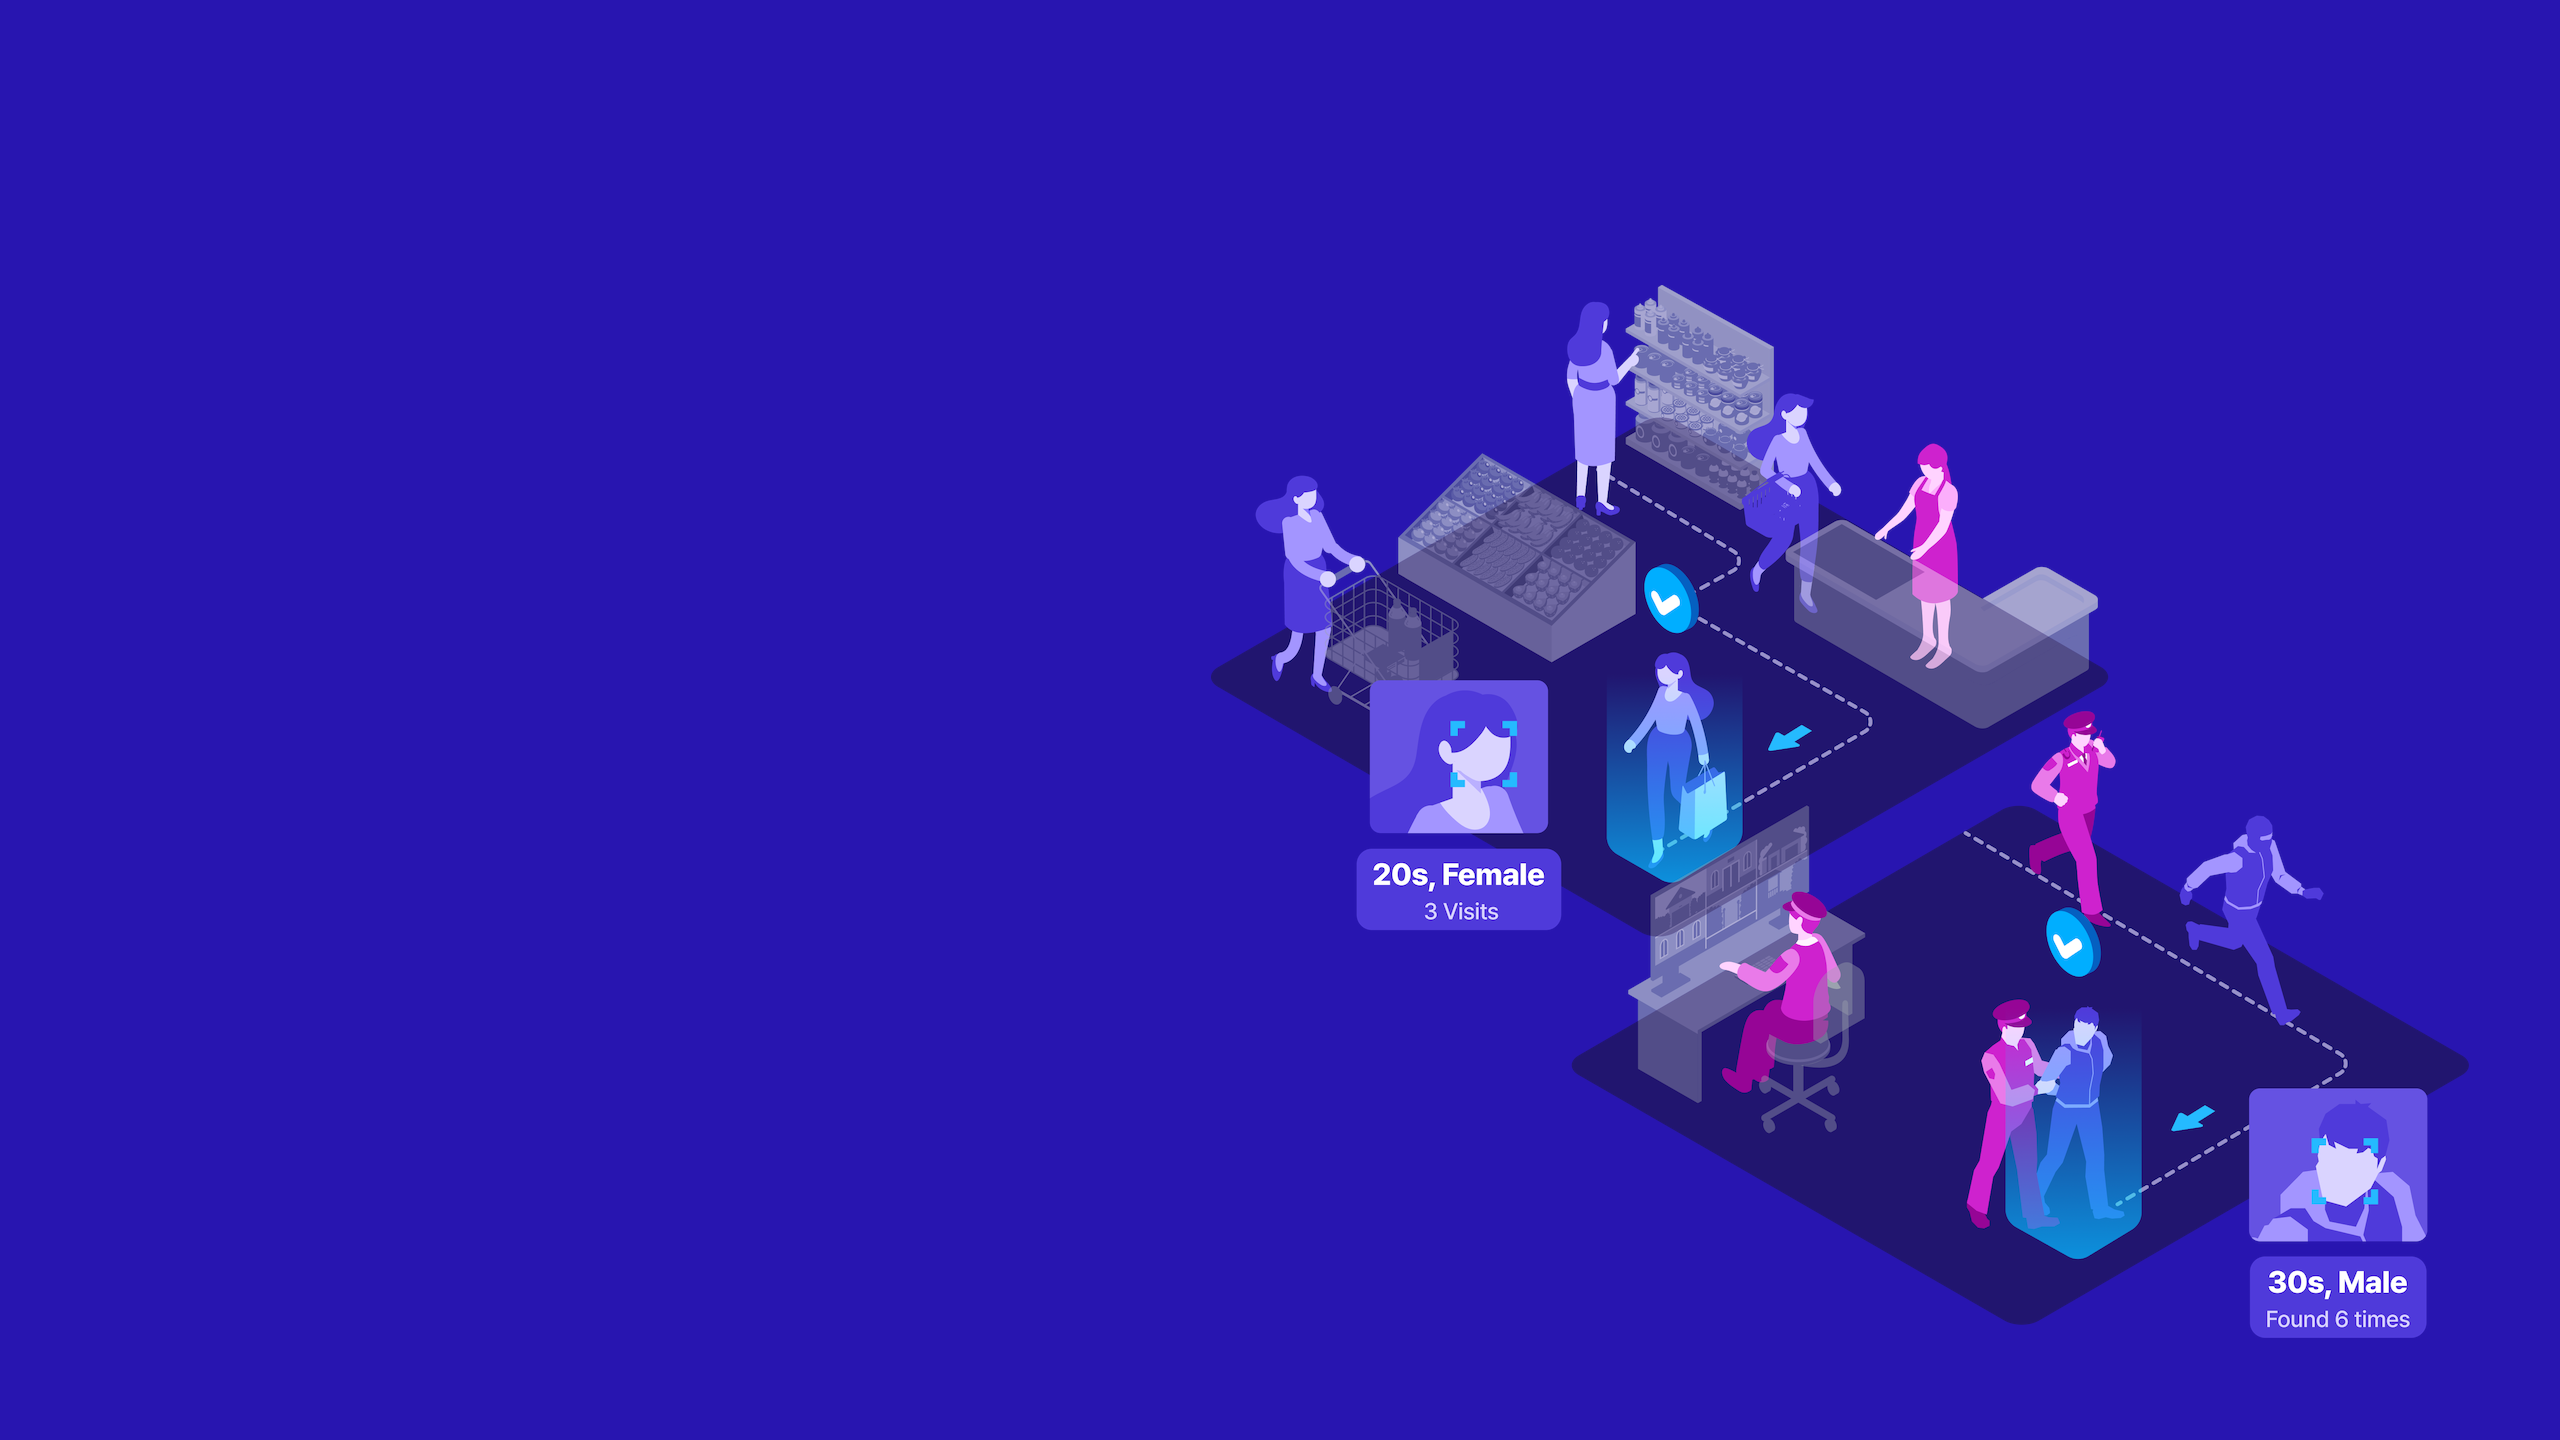
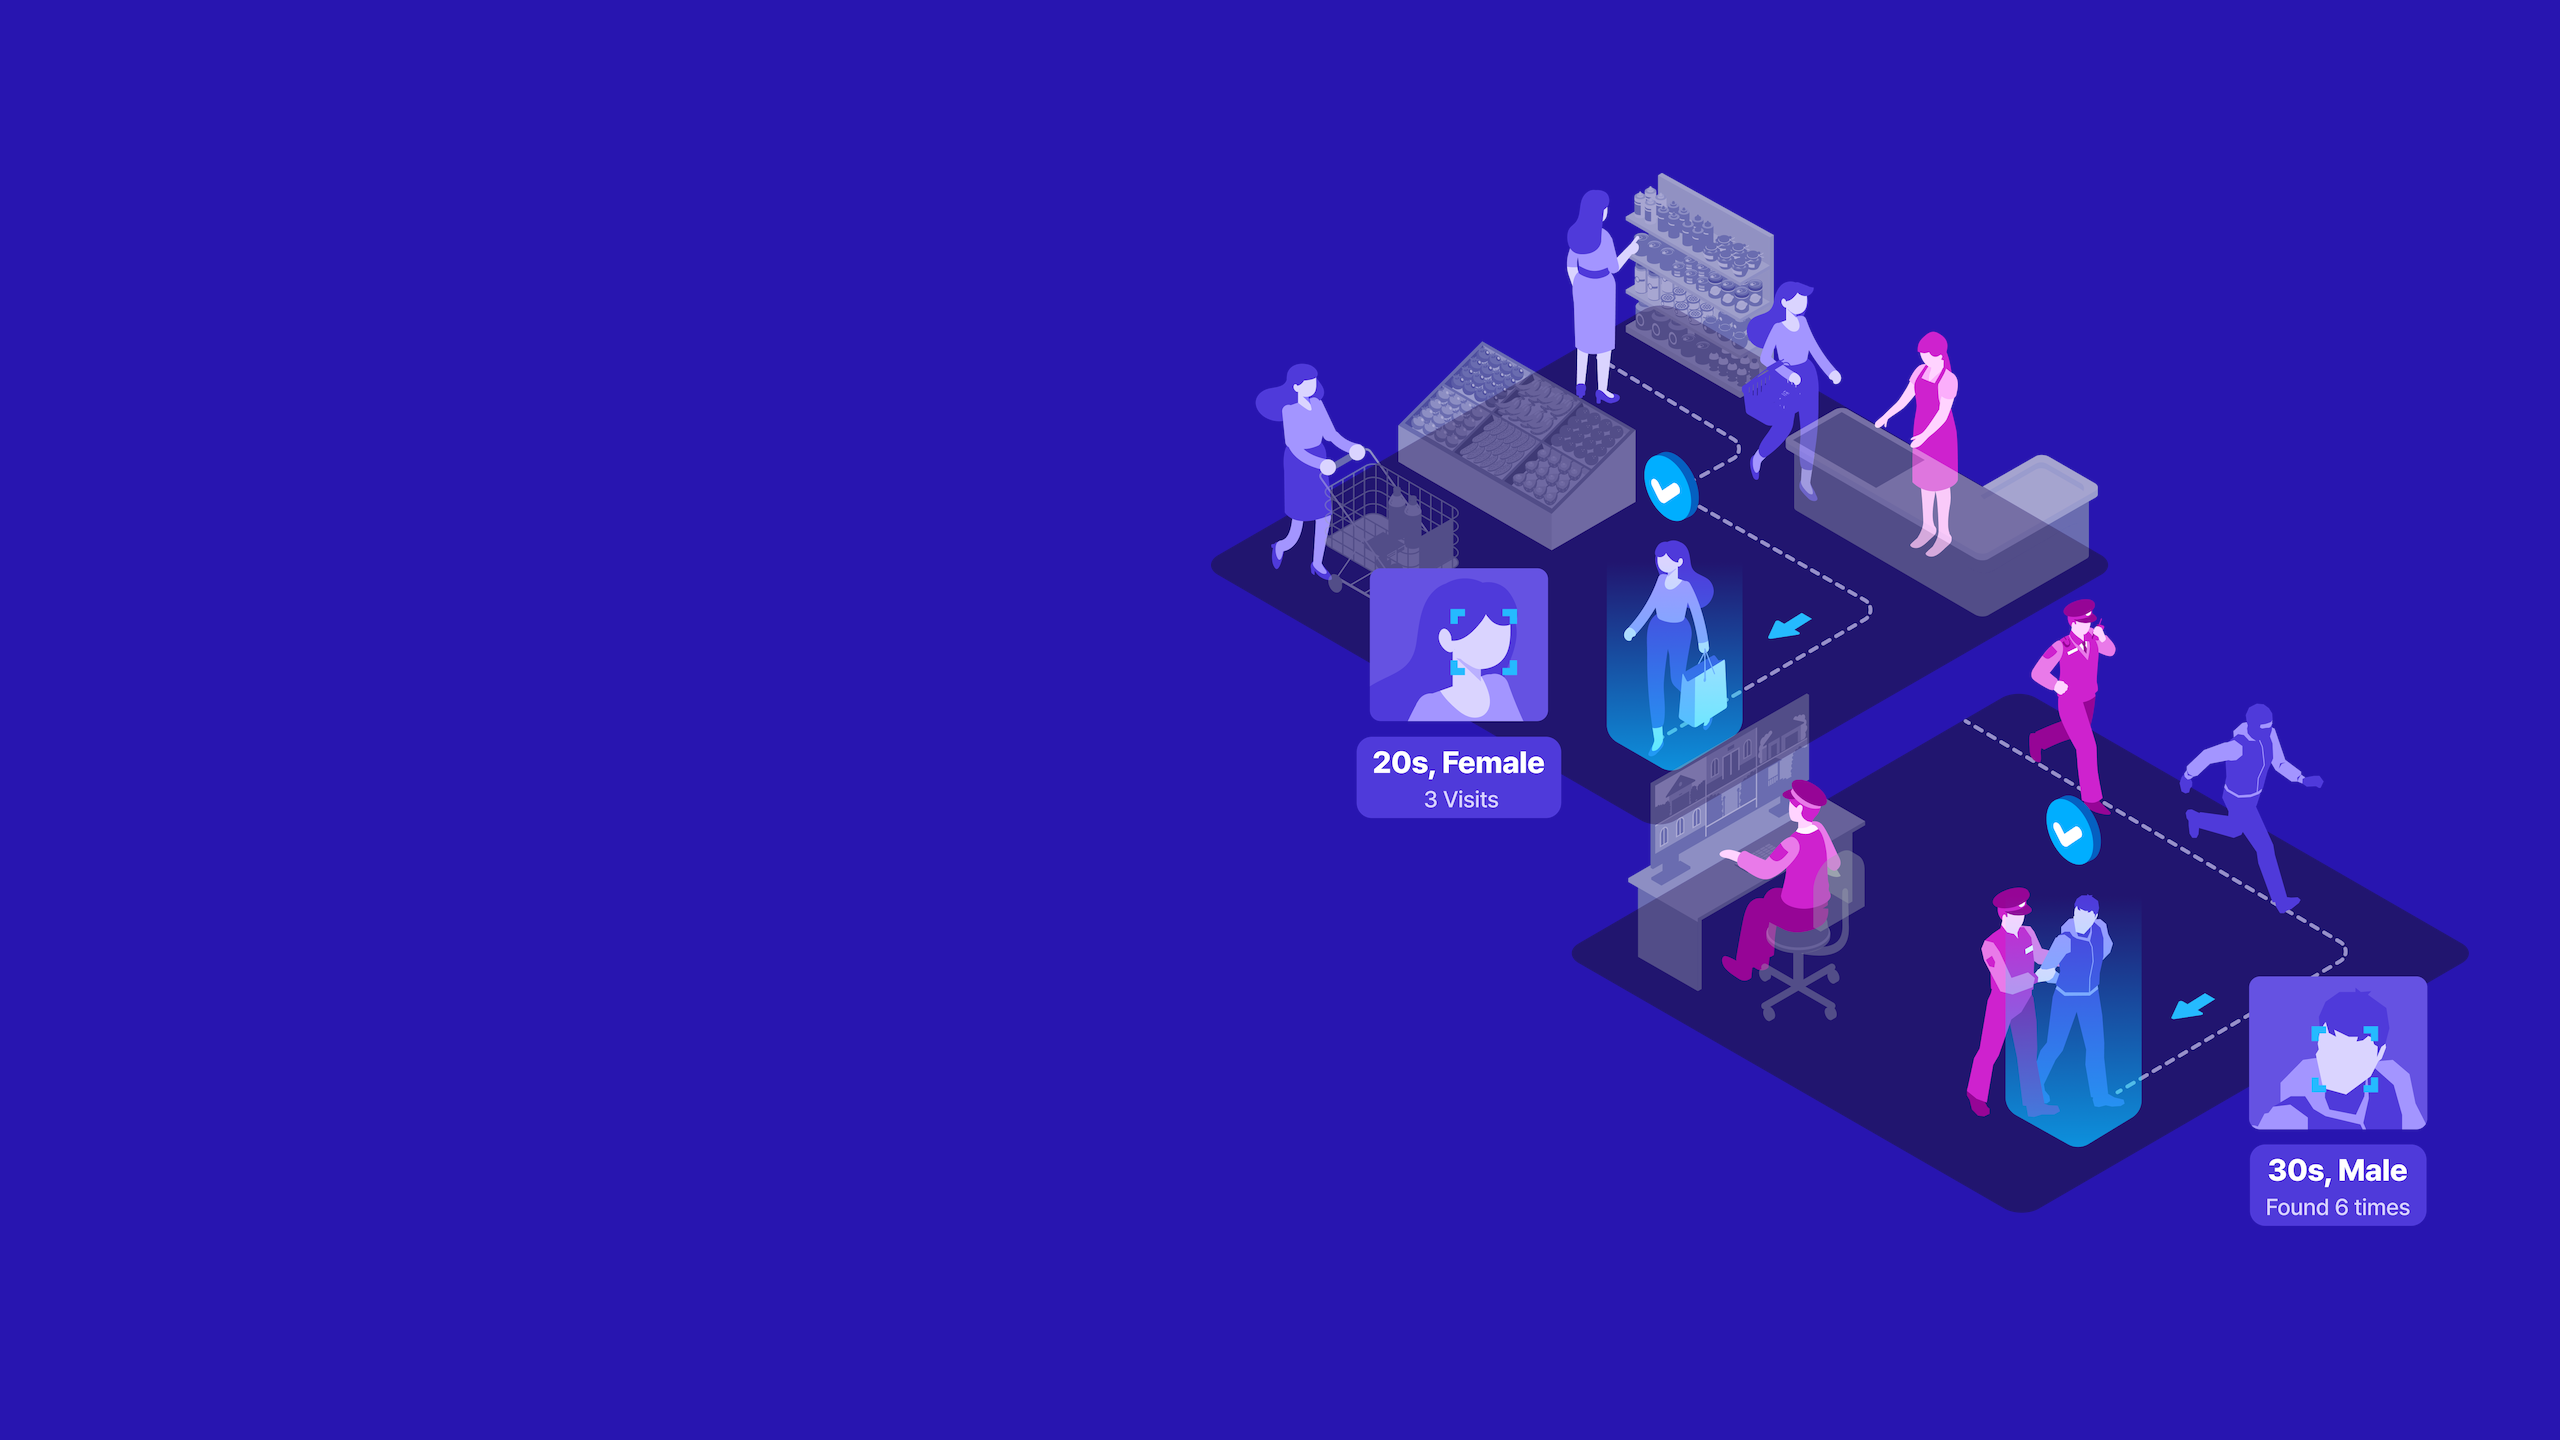
표지 배경을 새 파일로 바꾸고, 왼쪽 그림자를 끌 수 있게 함
표지 그림(retail)을 다시 받은 pptx 로 새로 만들었다. 새 파일은 배경이
단색 채우기이고 일러스트 한 장만 얹혀 있어서 그대로 2560×1440 으로 합쳤다.
일러스트가 전보다 56px 위로 올라가 오른쪽 아래 행사명 상자와 안 겹친다.

표지 왼쪽에 깔던 까만 그라데이션은 이 배경에서 뺐다. 왼쪽이 이미 어둡고
색이 고른 배경이라, 한 겹 더 깔아도 글씨가 더 읽히지 않으면서 바탕색만
탁해진다.

배경마다 끌 수 있게 index.json 에 scrim 을 두고 coverScrim(키) 하나로 읽게
했다. HTML·PPTX·웹 화면이 모두 같은 값을 쓴다. prepare_cover_bg.py 에는
--no-scrim 을 붙였고, 같은 키로 다시 넣을 때 설정이 조용히 사라지지 않게
이어받는다. 다른 그림으로 갈아 끼우는 --replace 에서는 이어받지 않는다.

breezehome 예시로 retail 과 cube 를 각각 빌드해 확인했다. retail 은
background:none 이고 cube 는 기존 그라데이션 그대로다.

Changed region(s): [[0.4688, 0.125, 0.9688, 0.9375]]

diff --git a/docs/index.html b/docs/index.html
@@ -525,7 +525,7 @@ function drawCover(){
   const C = COVERSPEC.box, T = COVERSPEC.type, st = $('#cvStage');
   const bg = COVERSPEC.backgrounds.find(b=>b.key===S.coverBg) || COVERSPEC.backgrounds[0];
   st.querySelector('.bg').style.backgroundImage = `url('${bg.src}')`;
-  st.querySelector('.sc').style.background = COVERSPEC.scrim;
+  st.querySelector('.sc').style.background = bg.scrim || COVERSPEC.scrim;
 
   const lead = st.querySelector('.lead');
   lead.style.cssText = boxCss(C.lead) + faceCss(T.body2);

diff --git a/skills/ppt-maker/app/index.html b/skills/ppt-maker/app/index.html
@@ -507,7 +507,7 @@ function drawCover(){
   const C = COVERSPEC.box, T = COVERSPEC.type, st = $('#cvStage');
   const bg = COVERSPEC.backgrounds.find(b=>b.key===S.coverBg) || COVERSPEC.backgrounds[0];
   st.querySelector('.bg').style.backgroundImage = `url('${bg.src}')`;
-  st.querySelector('.sc').style.background = COVERSPEC.scrim;
+  st.querySelector('.sc').style.background = bg.scrim || COVERSPEC.scrim;
 
   const lead = st.querySelector('.lead');
   lead.style.cssText = boxCss(C.lead) + faceCss(T.body2);

diff --git a/skills/ppt-maker/scripts/prepare_cover_bg.py b/skills/ppt-maker/scripts/prepare_cover_bg.py
@@ -296,6 +296,11 @@ def main():
                     help='표지 목록에 새로 넣지 않고, 이 표지 키의 간지 배경으로 단다')
     ap.add_argument('--kind', default=None, choices=['stripe-h', 'stripe-v', 'dither', 'graphic', 'photo'],
                     help='자동 판별이 틀렸을 때 방법을 직접 지정한다')
+    g = ap.add_mutually_exclusive_group()
+    g.add_argument('--no-scrim', dest='no_scrim', action='store_true',
+                   help='표지 왼쪽을 눌러 주는 그라데이션을 덮지 않는다 (왼쪽이 이미 어둡고 고른 배경)')
+    g.add_argument('--scrim', dest='scrim', action='store_true',
+                   help='--no-scrim 으로 꺼 뒀던 것을 다시 덮는다')
     a = ap.parse_args()
 
     src = Image.open(a.source).convert('RGB')
@@ -353,8 +358,14 @@ def main():
         json.dump(m, open(MANIFEST, 'w', encoding='utf-8'), ensure_ascii=False, indent=2)
         print(f'간지      {tgt["label"]}({tgt["key"]}) 표지를 고르면 간지 배경으로 {fname} 을 쓴다')
         return
+    prev = next((b for b in m['backgrounds'] if b['key'] == a.key), None)
     bgs = [b for b in m['backgrounds'] if b['key'] != a.key and b['key'] != (a.replace or '')]
     entry = {'key': a.key, 'label': a.label or a.key, 'file': fname}
+    # 그라데이션 여부는 그림 성질이라 같은 키로 다시 넣을 때만 이어받는다.
+    # --replace 는 다른 그림으로 갈아 끼우는 것이라 이어받지 않는다.
+    if a.no_scrim or (prev and prev.get('scrim') is False and not a.scrim):
+        entry['scrim'] = False
+        print('덮개      표지 왼쪽 그라데이션을 덮지 않는다')
     if a.replace:                                   # 자리를 그대로 이어받는다
         idx = next((i for i, b in enumerate(m['backgrounds']) if b['key'] == a.replace), len(bgs))
         old = next((b for b in m['backgrounds'] if b['key'] == a.replace), None)

diff --git a/skills/ppt-maker/references/design-system.md b/skills/ppt-maker/references/design-system.md
@@ -98,22 +98,25 @@ Paperlogy·Pretendard 는 굵기마다 패밀리 이름이 따로 있다(`Paperl
 
 목록은 `assets/cover-bg/index.json` 한 곳에만 있다. 지금 들어 있는 것:
 
-| 값 | 그림 | 파일 | 짝이 되는 간지 배경 |
-| --- | --- | --- | --- |
-| `cube`(기본) | 반사 있는 유리 큐브 | `cube.jpg` | 없음 |
-| `stripe` | 가로 스캔라인 그라데이션 | `stripe.png` | 없음 |
-| `haze` | 양옆 파란 빛 | `haze.png` | `haze-divider.png` (보라 점 그라데이션) |
-| `cctv` | 감시 카메라, 도트로 덮인 | `cctv.jpg` | 없음 |
-| `wave` | 보라 물결 | `wave.png` | 없음 |
-| `cube-mono` | 큐브 흑백 하프톤 | `cube-mono.png` | 없음 |
-| `retail` | 파란 바탕에 매장 사람 인식 그림 | `retail.png` | 없음 |
+| 값 | 그림 | 파일 | 짝이 되는 간지 배경 | 왼쪽 그라데이션 |
+| --- | --- | --- | --- | --- |
+| `cube`(기본) | 반사 있는 유리 큐브 | `cube.jpg` | 없음 | 덮음 |
+| `stripe` | 가로 스캔라인 그라데이션 | `stripe.png` | 없음 | 덮음 |
+| `haze` | 양옆 파란 빛 | `haze.png` | `haze-divider.png` (보라 점 그라데이션) | 덮음 |
+| `cctv` | 감시 카메라, 도트로 덮인 | `cctv.jpg` | 없음 | 덮음 |
+| `wave` | 보라 물결 | `wave.png` | 없음 | 덮음 |
+| `cube-mono` | 큐브 흑백 하프톤 | `cube-mono.png` | 없음 | 덮음 |
+| `retail` | 파란 바탕에 매장 사람 인식 그림 | `retail.png` | 없음 | 안 덮음 |
 
 - 표지에 짝이 되는 간지 그림(`divider`)이 있으면 **간지 배경도 그 그림으로 바뀐다**. 짝이 없으면 간지는 지금처럼 포인트 컬러 그라데이션이다.
   마무리 장표는 표지와 무관하게 늘 브랜드 그라데이션(`closingBgCss`).
 - 간지 그림을 쓰면 오른쪽 아래 로고 워터마크는 넣지 않는다 — 그림이 이미 그 자리를 채운다.
 - 간지 글씨는 왼쪽에 몰려 있어 `DIVIDER_SCRIM` 은 왼쪽 74% → 오른쪽 6% 로 눕힌다. 표지용 `COVER_SCRIM` 보다 왼쪽이 진하다.
-- 그림 위에 제목 자리를 눌러 주는 그라데이션(`COVER_SCRIM`)을 한 겹 깐다 — 왼쪽 48% → 74% 에서 사라진다.
+- 그림 위에 제목 자리를 눌러 주는 그라데이션(`COVER_SCRIM`)을 한 겹 깐다. 왼쪽 48% 에서 시작해 74% 에서 사라진다.
   제목이 길어 밝은 데 걸쳐도 흰 글씨가 읽힌다. 바탕이 검정인 그림에서는 보이지 않는다.
+- 왼쪽이 이미 어둡고 색이 고른 배경은 목록에 `"scrim": false` 를 적어 이 그라데이션을 끈다(지금은 `retail`).
+  한 겹 더 깔아 봐야 글씨가 더 읽히지도 않으면서 바탕색만 탁해지기 때문이다.
+  코드에서는 `coverScrim(키)` 하나로 읽는다. HTML·PPTX·웹 화면 미리보기가 모두 이 값을 쓴다.
 - HTML 은 그림 + CSS 그라데이션, PPTX 는 둘을 합쳐 한 장(`_bg_cover`)으로 캡처해 깐다.
   **원본이 PNG 면 합친 것도 PNG** 로 저장한다 — 줄무늬·경계가 뚜렷한 그림은 JPEG 에서 링잉이 생긴다.
 - 작업 폴더 `out/assets/cover-bg/` 에 같은 이름 파일이 있으면 그쪽을 쓴다(그림 교체용).
@@ -122,6 +125,9 @@ Paperlogy·Pretendard 는 굵기마다 패밀리 이름이 따로 있다(`Paperl
 
 ```bash
 python3 skills/ppt-maker/scripts/prepare_cover_bg.py <원본이미지> <키> --label "화면에 보일 이름" [--replace 바꿀키]
+
+# 왼쪽이 이미 어두워 제목 자리를 누를 필요가 없는 배경
+python3 skills/ppt-maker/scripts/prepare_cover_bg.py <원본이미지> <키> --label "이름" --no-scrim
 
 # 표지 목록에 새로 넣지 않고, 그 표지를 골랐을 때 쓸 간지 배경으로 달 때
 python3 skills/ppt-maker/scripts/prepare_cover_bg.py <원본이미지> <키> --divider-of <표지키>

diff --git a/skills/ppt-maker/SKILL.md b/skills/ppt-maker/SKILL.md
@@ -40,6 +40,7 @@ pip install python-pptx pymupdf
 표지·목차의 글자 크기·줄 간격(pt 고정)·자간·좌표는 `references/design-system.md` 의 "표지·목차 글자 규격" 표에 있고, 값은 `scripts/lib/common.mjs` 의 `TYPE`·`COVER_BOX`·`AGENDA_BOX` 한 곳에만 둔다.
 표지 배경 그림은 `meta.coverBg` 로 고른다(기본 `cube`). 목록은 `assets/cover-bg/index.json`.
 배경에 짝이 되는 간지 그림이 달려 있으면 간지 배경도 같이 바뀐다(지금은 `haze`). 마무리 장표는 늘 브랜드 그라데이션이다.
+표지 왼쪽에는 제목이 읽히게 어두운 그라데이션을 한 겹 깔지만, 왼쪽이 이미 어두운 배경은 `--no-scrim` 으로 끈다(지금은 `retail`).
 배경을 새로 넣거나 바꿀 때는 원본을 그대로 쓰지 말고 `scripts/prepare_cover_bg.py` 로 2560×1440 고화질 처리를 거친다.
 글자·로고가 얹힌 완성 장표를 배경으로 받았으면 `scripts/strip_cover_text.py` 로 글자를 먼저 지운다. 자세한 건 `references/design-system.md`.
 
